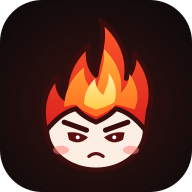
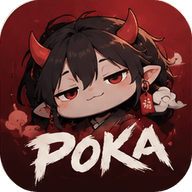
새 브랜드 적용: 시안 파비콘·대표 그림·붓글씨 POKA, 문의는 로그인 회원만, 비로그인 구인 목록은 제목만
브랜드
- 시안의 FAVICON 상자를 잘라 파비콘·탭 아이콘·상단 로고·애플·설치 앱(일반·maskable) 아이콘 모두 교체
- 홈 맨 위에 시안 대표 그림(POKA 테이블 일러스트), 홍보 포스터는 그 아래로
- 무료 홍보 이벤트: 먹색 바탕 + 시안 붓글씨 POKA + 빨간 붓 획 밑줄 + 마스코트(포스터·하단 배너·사이드 카드·광고 페이지)

권한
- 제휴·광고(무료 홍보 포함) 문의는 로그인 회원만(서버 401, 화면은 로그인 안내), 문의 기록에 닉네임 남김
- 비로그인 구인 목록·검색·목록 API: 제목·분류·모집 상태만, 조건·주소·일정·상호 칸은 서버에서 비워 보냄
- 관리자 수정·삭제 권한은 그대로 유지

diff --git a/src/components/ads/free-promo-banner.tsx b/src/components/ads/free-promo-banner.tsx
@@ -2,12 +2,12 @@ import Link from "next/link";
 import { FREE_PROMO } from "@/lib/free-promo";
 import { cn } from "cn";
 
-/** POKA 마스코트(사이트 위쪽 로고의 불꽃 캐릭터)를 금테 안에 넣어 보여 줍니다. */
+/** POKA 마스코트(파비콘 그림)를 빨간 테 안에 넣어 보여 줍니다. */
 export function PokaMascot({ className }: { className?: string }) {
   return (
     <span
       className={cn(
-        "relative inline-grid shrink-0 place-items-center rounded-[22%] bg-gradient-to-br from-[#f6dfa0] to-[#c9952f] p-[3px] shadow-[0_0_14px_rgba(255,68,68,0.45)]",
+        "relative inline-grid shrink-0 place-items-center rounded-[22%] bg-[#c8282c] p-[3px] shadow-[0_0_18px_rgba(255,59,48,0.35)]",
         className,
       )}
     >
@@ -17,8 +17,32 @@ export function PokaMascot({ className }: { className?: string }) {
   );
 }
 
+/** 브랜드 시안의 붓글씨 "POKA" 로고 */
+export function PokaBrush({ className }: { className?: string }) {
+  // eslint-disable-next-line @next/next/no-img-element
+  return <img src="/brand/poka-brush.png" alt="POKA" className={cn("h-auto select-none", className)} draggable={false} />;
+}
+
+/** "무료 홍보 이벤트" 글자 + 밑에 깔린 빨간 붓 획 */
+export function FreePromoTitle({ className }: { className?: string }) {
+  return (
+    <span className={cn("relative inline-block font-black leading-none tracking-tight text-[#f6efe6]", className)}>
+      <svg
+        aria-hidden
+        viewBox="0 0 320 40"
+        preserveAspectRatio="none"
+        className="absolute -inset-x-[6%] bottom-[-18%] -z-0 h-[62%] w-[112%]"
+      >
+        <path d="M6 18 C60 4 170 0 306 6 C314 8 316 16 306 20 C206 24 108 30 16 38 C2 40 -4 24 6 18 Z" fill="#c8282c" opacity="0.9" />
+      </svg>
+      <span className="relative">무료 홍보 이벤트</span>
+    </span>
+  );
+}
+
 /**
  * "POKA 무료 홍보 이벤트" 배너. 비어 있는 홍보·광고 자리에 넣습니다.
+ * 브랜드 시안처럼 먹색 바탕에 붓글씨 POKA, 빨간 붓 획을 씁니다.
  * wide: 게시판·메인 하단 가로 띠, card: 오른쪽 제휴 카드 자리
  */
 export function FreePromoBanner({ variant, className }: { variant: "wide" | "card"; className?: string }) {
@@ -28,19 +52,16 @@ export function FreePromoBanner({ variant, className }: { variant: "wide" | "car
         href={FREE_PROMO.href}
         aria-label={FREE_PROMO.title}
         className={cn(
-          "group mx-auto flex w-full max-w-[300px] flex-col items-center gap-2 overflow-hidden rounded-[1.25rem] border-2 border-[#c9952f]/80 bg-gradient-to-b from-[#5a1418] via-[#2a0f10] to-[#140a0a] px-4 py-5 text-center shadow-[0_8px_24px_rgb(0_0_0/0.4)] hover:border-[#f6dfa0]",
+          "group mx-auto flex w-full max-w-[300px] flex-col items-center gap-2.5 overflow-hidden rounded-[1.25rem] border border-[#c9a36a]/50 bg-gradient-to-b from-[#241011] via-[#140d0d] to-[#0c0a0a] px-4 py-5 text-center shadow-[0_8px_24px_rgb(0_0_0/0.4)] hover:border-[#c9a36a]",
           className,
         )}
       >
-        <span className="rounded-full bg-gradient-to-r from-[#f6dfa0] to-[#c9952f] px-3 py-0.5 text-[11px] font-black tracking-[0.25em] text-[#2a0f10]">
-          EVENT
-        </span>
+        <span className="text-[10px] font-bold tracking-[0.4em] text-[#c9a36a]">FREE PROMOTION</span>
         <PokaMascot className="size-16" />
-        <span className="text-xl font-black leading-tight text-white">
-          POKA <span className="bg-gradient-to-r from-[#f6dfa0] to-[#c9952f] bg-clip-text text-transparent">무료 홍보</span> 이벤트
-        </span>
-        <span className="text-xs leading-5 text-[#f3eadb]">매장 · 대회 · 팀 · 유튜버 홍보를 POKA 메인에 무료로 올려 드려요</span>
-        <span className="mt-1 inline-flex min-h-10 items-center rounded-full bg-gradient-to-r from-[#f6dfa0] to-[#c9952f] px-5 text-sm font-black text-[#2a0f10] group-hover:brightness-110">
+        <PokaBrush className="w-36" />
+        <FreePromoTitle className="text-2xl" />
+        <span className="mt-1 text-xs leading-5 text-[#e8dfd3]">매장 · 대회 · 팀 · 유튜버 홍보를 POKA 메인에 무료로 올려 드려요</span>
+        <span className="mt-1 inline-flex min-h-10 items-center rounded-lg bg-[#c8282c] px-5 text-sm font-black text-[#f6efe6] group-hover:bg-[#d93a3e]">
           지금 신청하기 →
         </span>
       </Link>
@@ -51,21 +72,19 @@ export function FreePromoBanner({ variant, className }: { variant: "wide" | "car
       href={FREE_PROMO.href}
       aria-label={FREE_PROMO.title}
       className={cn(
-        "group flex min-h-[100px] items-center gap-3 overflow-hidden rounded-xl border-2 border-[#c9952f]/80 bg-gradient-to-r from-[#5a1418] via-[#2a0f10] to-[#140a0a] px-4 py-3 shadow-[0_6px_18px_rgb(0_0_0/0.35)] hover:border-[#f6dfa0] sm:px-6",
+        "group flex min-h-[104px] items-center gap-3 overflow-hidden rounded-xl border border-[#c9a36a]/50 bg-gradient-to-r from-[#241011] via-[#140d0d] to-[#0c0a0a] px-4 py-3 shadow-[0_6px_18px_rgb(0_0_0/0.35)] hover:border-[#c9a36a] sm:px-6",
         className,
       )}
     >
-      <PokaMascot className="size-12 sm:size-14" />
-      <span className="min-w-0 flex-1">
+      <PokaMascot className="size-14 sm:size-16" />
+      <span className="flex min-w-0 flex-1 flex-col items-start gap-1.5">
         <span className="flex items-center gap-2">
-          <span className="rounded-full bg-[#f6dfa0]/15 px-2 py-0.5 text-[10px] font-black tracking-[0.2em] text-[#f6dfa0]">EVENT</span>
+          <PokaBrush className="w-20 sm:w-24" />
+          <FreePromoTitle className="text-lg sm:text-xl" />
         </span>
-        <span className="mt-0.5 block text-base font-black leading-snug text-white sm:text-lg">
-          POKA <span className="text-[#f6dfa0]">무료 홍보</span> 이벤트
-        </span>
-        <span className="block text-xs text-[#f3eadb] sm:text-sm">매장 · 대회 · 팀 · 유튜버 홍보를 POKA 메인에 무료로 올려 드려요</span>
+        <span className="block text-xs text-[#e8dfd3] sm:text-sm">매장 · 대회 · 팀 · 유튜버 홍보를 POKA 메인에 무료로 올려 드려요</span>
       </span>
-      <span className="hidden shrink-0 rounded-full bg-gradient-to-r from-[#f6dfa0] to-[#c9952f] px-4 py-2 text-sm font-black text-[#2a0f10] group-hover:brightness-110 sm:inline-flex">
+      <span className="hidden shrink-0 rounded-lg bg-[#c8282c] px-4 py-2.5 text-sm font-black text-[#f6efe6] group-hover:bg-[#d93a3e] sm:inline-flex">
         신청하기 →
       </span>
     </Link>

diff --git a/src/app/advertise/page.tsx b/src/app/advertise/page.tsx
@@ -1,8 +1,9 @@
 import type { Metadata } from "next";
 import { BriefcaseIcon, MegaphoneIcon, UsersIcon } from "lucide-react";
 import { AdvertiseForm } from "@/components/ads/advertise-form";
+import { getCurrentUser } from "@/lib/current-user";
 import { AD_PRODUCTS } from "@/lib/sponsor";
-import { PokaMascot } from "@/components/ads/free-promo-banner";
+import { FreePromoTitle, PokaBrush, PokaMascot } from "@/components/ads/free-promo-banner";
 
 export const metadata: Metadata = {
   title: "광고 · 제휴 문의",
@@ -22,7 +23,8 @@ const STEPS = [
   { title: "게재 시작", body: "확인 후 바로 노출되고, 기간이 끝나면 알려 드립니다." },
 ] as const;
 
-export default function AdvertisePage() {
+export default async function AdvertisePage() {
+  const viewer = await getCurrentUser().catch(() => null);
   return (
     <div className="flex flex-col gap-6">
       <header className="board-intro">
@@ -42,25 +44,24 @@ export default function AdvertisePage() {
 
       <section
         id="free-promo"
-        className="scroll-mt-24 overflow-hidden rounded-2xl border-2 border-[#c9952f]/80 bg-gradient-to-br from-[#5a1418] via-[#2a0f10] to-[#140a0a] p-5 sm:p-6"
+        className="scroll-mt-24 overflow-hidden rounded-2xl border border-[#c9a36a]/50 bg-gradient-to-br from-[#241011] via-[#140d0d] to-[#0c0a0a] p-5 sm:p-6"
       >
-        <span className="rounded-full bg-gradient-to-r from-[#f6dfa0] to-[#c9952f] px-3 py-0.5 text-[11px] font-black tracking-[0.25em] text-[#2a0f10]">
-          EVENT
-        </span>
-        <div className="mt-3 flex items-center gap-3">
-          <PokaMascot className="size-14" />
-          <h2 className="text-2xl font-black text-white">
-            POKA <span className="text-[#f6dfa0]">무료 홍보</span> 이벤트
+        <span className="text-[11px] font-bold tracking-[0.4em] text-[#c9a36a]">FREE PROMOTION EVENT</span>
+        <div className="mt-3 flex items-center gap-4">
+          <PokaMascot className="size-16" />
+          <h2 className="flex flex-col items-start gap-2">
+            <PokaBrush className="w-32" />
+            <FreePromoTitle className="text-2xl sm:text-3xl" />
           </h2>
         </div>
-        <p className="mt-2 text-sm leading-6 text-[#f3eadb]">
+        <p className="mt-4 text-sm leading-6 text-[#e8dfd3]">
           매장 오픈, 대회, 팀 모집, 유튜브 채널 홍보를 POKA 메인 포스터 자리에 무료로 올려 드립니다. 아래 문의 양식에
           &quot;무료 홍보 이벤트&quot;라고 적고 업체명·연락처를 남겨 주시면, 확인 후 포스터를 받아 바로 걸어 드립니다.
         </p>
         <p className="mt-1 text-xs text-[#bfae92]">자리가 차면 순서대로 안내하며, 이벤트는 운영 상황에 따라 끝날 수 있습니다.</p>
         <a
           href="#inquiry"
-          className="mt-4 inline-flex min-h-11 items-center rounded-full bg-gradient-to-r from-[#f6dfa0] to-[#c9952f] px-6 text-sm font-black text-[#2a0f10] hover:brightness-110"
+          className="mt-4 inline-flex min-h-11 items-center rounded-lg bg-[#c8282c] px-6 text-sm font-black text-[#f6efe6] hover:bg-[#d93a3e]"
         >
           무료 홍보 신청하기 →
         </a>
@@ -110,7 +111,7 @@ export default function AdvertisePage() {
 
       <section id="inquiry" className="scroll-mt-24">
         <h2 className="mb-3 text-lg font-bold text-white">광고 문의하기</h2>
-        <AdvertiseForm />
+        <AdvertiseForm loggedIn={Boolean(viewer)} />
       </section>
     </div>
   );

diff --git a/src/lib/load-feed.ts b/src/lib/load-feed.ts
@@ -56,11 +56,45 @@ export function toJobCard(post: FeedRow, now = new Date(), today = todayKstDate(
   };
 }
 
+/**
+ * 비로그인용 구인 카드: 제목·분류·모집 상태·글쓴이만 남기고 조건·주소·일정 등은 비웁니다.
+ * 화면뿐 아니라 브라우저로 내려가는 데이터에서도 빠지게 하려고 서버에서 비웁니다.
+ */
+export function guestJobCard(card: JobCardData): JobCardData {
+  return {
+    ...card,
+    jobLocation: null,
+    jobCompanyName: null,
+    jobPayType: null,
+    jobPayAmount: null,
+    jobSchedule: null,
+    jobWorkHours: null,
+    jobBenefits: null,
+    jobExperience: null,
+    jobWorkDate: null,
+    jobDateFlexible: false,
+    jobGuaranteedHours: null,
+    jobOvertime: null,
+    jobTravelPay: false,
+    jobTravelPayAmount: null,
+    jobSnacks: false,
+    jobDressCode: null,
+    jobApplyMethod: null,
+    jobEndDate: null,
+    jobEvents: null,
+    jobDeadline: null,
+    jobHeadcount: null,
+    jobAlwaysOpen: false,
+  };
+}
+
 export type JobPageOptions = {
   offset?: number;
   limit?: number;
   region?: JobRegion | null;
   openOnly?: boolean;
+  /** 비로그인이면 제목만(guestJobCard) */
+  guest?: boolean;
 };
 
 /**
@@ -111,7 +145,8 @@ export async function loadJobPage(key: FeedKey, options: JobPageOptions = {}) {
 
   const total = openCount + closedCount;
   const nextOffset = offset + rows.length < total ? offset + rows.length : null;
-  return { total, openCount, nextOffset, jobs: rows.map((row) => toJobCard(row, now, today)) };
+  const jobs = rows.map((row) => toJobCard(row, now, today));
+  return { total, openCount, nextOffset, jobs: options.guest ? jobs.map(guestJobCard) : jobs };
 }
 
 export async function loadFeedPage(key: FeedKey, offset = 0, limit = PAGE_SIZE) {

diff --git a/src/app/api/advertise/route.ts b/src/app/api/advertise/route.ts
@@ -2,9 +2,15 @@ import { NextResponse } from "next/server";
 import { clientIp } from "@/lib/request";
 import { CoolDownError, REPORT_COOLDOWN_MS, writeAudit } from "@/lib/security";
 import { prisma } from "@/lib/db";
+import { getCurrentUser } from "@/lib/current-user";
 
+/** 제휴·광고(무료 홍보 이벤트 포함) 문의. 로그인한 회원만 보낼 수 있습니다. */
 export async function POST(request: Request) {
   try {
+    const user = await getCurrentUser();
+    if (!user) {
+      return NextResponse.json({ error: "로그인 후 문의를 보낼 수 있습니다." }, { status: 401 });
+    }
     const body = (await request.json()) as {
       company?: string;
       contact?: string;
@@ -20,7 +26,7 @@ export async function POST(request: Request) {
     }
 
     const ip = clientIp(request);
-    const key = `ad:ip:${ip}`;
+    const key = `ad:user:${user.id}`;
     const last = await prisma.writeThrottle.findUnique({ where: { key } });
     if (last && Date.now() - last.lastAt.getTime() < REPORT_COOLDOWN_MS) {
       return NextResponse.json({ error: "잠시 후 다시 보내 주세요." }, { status: 429 });
@@ -34,7 +40,7 @@ export async function POST(request: Request) {
     await writeAudit({
       kind: "AD_INQUIRY",
       ip,
-      detail: JSON.stringify({ company, contact, product, message: message.slice(0, 500) }),
+      detail: JSON.stringify({ nickname: user.nickname, company, contact, product, message: message.slice(0, 500) }),
     });
 
     return NextResponse.json({ ok: true });

diff --git a/src/components/ads/advertise-form.tsx b/src/components/ads/advertise-form.tsx
@@ -7,7 +7,7 @@ import { Label } from "@/components/ui/label";
 import { Textarea } from "@/components/ui/textarea";
 import { AD_PRODUCTS } from "@/lib/sponsor";
 
-export function AdvertiseForm() {
+export function AdvertiseForm({ loggedIn = true }: { loggedIn?: boolean }) {
   const [pending, setPending] = useState(false);
   const [error, setError] = useState<string | null>(null);
   const [done, setDone] = useState(false);
@@ -34,6 +34,21 @@ export function AdvertiseForm() {
     } finally {
       setPending(false);
     }
+  }
+
+  if (!loggedIn) {
+    return (
+      <div className="flex flex-col items-center gap-3 rounded-2xl border border-border bg-[#1a1617] px-4 py-8 text-center">
+        <p className="text-[15px] font-semibold text-white">문의는 로그인한 회원만 보낼 수 있습니다.</p>
+        <p className="text-sm text-[#9CA3AF]">카카오 또는 구글로 10초 만에 가입할 수 있어요.</p>
+        <a
+          href={`/login?next=${encodeURIComponent("/advertise#inquiry")}`}
+          className="inline-flex min-h-12 items-center rounded-full bg-[#8b2222] px-6 text-sm font-bold text-white hover:bg-[#a12a2a]"
+        >
+          로그인하고 문의하기
+        </a>
+      </div>
+    );
   }
 
   if (done) {

diff --git a/src/app/boards/jobs/[kind]/page.tsx b/src/app/boards/jobs/[kind]/page.tsx
@@ -11,6 +11,7 @@ import { loadJobPage } from "@/lib/load-feed";
 import { resolveJobKind } from "@/lib/nav";
 import { cn } from "cn";
 import { BoardBottomAd } from "@/components/ads/board-bottom-ad";
+import { getCurrentUser } from "@/lib/current-user";
 
 export const dynamic = "force-dynamic";
 
@@ -47,7 +48,9 @@ export default async function JobBoardPage({
   const region = parseJobRegion(query.region);
   const openOnly = query.open === "1";
   const feedKey = jobFeedKey(job.kind);
-  const page = await loadJobPage(feedKey, { offset: 0, limit: PAGE_SIZE, region, openOnly });
+  // 비로그인은 제목만 보이게 조건·주소 등을 빼고 내려보냅니다.
+  const guest = !(await getCurrentUser().catch(() => null));
+  const page = await loadJobPage(feedKey, { offset: 0, limit: PAGE_SIZE, region, openOnly, guest });
   const writeHref = `/boards/jobs/${kind}/write`;
 
   return (

diff --git a/src/app/boards/jobs/page.tsx b/src/app/boards/jobs/page.tsx
@@ -13,6 +13,7 @@ import { loadJobPage } from "@/lib/load-feed";
 import { JOB_KINDS } from "@/lib/nav";
 import { cn } from "cn";
 import { BoardBottomAd } from "@/components/ads/board-bottom-ad";
+import { getCurrentUser } from "@/lib/current-user";
 
 export const dynamic = "force-dynamic";
 
@@ -37,7 +38,7 @@ export default async function JobsHubPage({ searchParams }: { searchParams: Sear
   const region = parseJobRegion(params.region);
   const openOnly = params.open === "1";
   const [page, urgent] = await Promise.all([
-    loadJobPage("jobs", { offset: 0, limit: PAGE_SIZE, region, openOnly }).catch(() => ({
+    loadJobPage("jobs", { offset: 0, limit: PAGE_SIZE, region, openOnly, guest: !(await getCurrentUser().catch(() => null)) }).catch(() => ({
       jobs: [],
       total: 0,
       nextOffset: null,

diff --git a/src/app/search/page.tsx b/src/app/search/page.tsx
@@ -4,7 +4,7 @@ import { prisma } from "@/lib/db";
 import { PostList, type PostSummary } from "@/components/posts/post-list";
 import { JobCards, type JobCardData } from "@/components/jobs/job-cards";
 import { AUTHOR_SELECT } from "@/components/posts/author-chip";
-import { toJobCard } from "@/lib/load-feed";
+import { guestJobCard, toJobCard } from "@/lib/load-feed";
 import { cn } from "cn";
 import { getCurrentUser } from "@/lib/current-user";
 
@@ -69,7 +69,7 @@ export default async function SearchPage({
     ]);
     jobTotal = jobCount;
     postTotal = postCount;
-    jobs = jobRows.map((row) => toJobCard(row));
+    jobs = jobRows.map((row) => (viewer ? toJobCard(row) : guestJobCard(toJobCard(row))));
     posts = postRows.map((post) => ({
       id: post.id,
       boardType: post.boardType,

diff --git a/src/app/api/feed/route.ts b/src/app/api/feed/route.ts
@@ -1,6 +1,7 @@
 import { NextResponse } from "next/server";
 import { AUTHOR_SELECT } from "@/components/posts/author-chip";
 import { prisma } from "@/lib/db";
+import { getCurrentUser } from "@/lib/current-user";
 import { todayKstDate } from "@/lib/dates";
 import { PAGE_SIZE, feedWhere, isJobFeed, parseFeedKey } from "@/lib/feed";
 import { parseJobRegion } from "@/lib/job-status";
@@ -52,6 +53,8 @@ export async function GET(request: Request) {
       limit,
       region: parseJobRegion(url.searchParams.get("region")),
       openOnly: url.searchParams.get("open") === "1",
+      // 비로그인은 제목만
+      guest: !(await getCurrentUser().catch(() => null)),
     });
     return NextResponse.json({ key, total: page.total, offset, items: page.jobs, nextOffset: page.nextOffset });
   }

diff --git a/src/app/page.tsx b/src/app/page.tsx
@@ -10,6 +10,7 @@ import { todayKstDate } from "@/lib/dates";
 import { getHomeFeed } from "@/lib/home-data";
 import { getPremiumBanners } from "@/lib/premium-banners";
 import { BoardBottomAd } from "@/components/ads/board-bottom-ad";
+import { HomeHero } from "@/components/home/home-hero";
 import { FREE_PROMO } from "@/lib/free-promo";
 
 export const metadata: Metadata = { alternates: { canonical: "/" } };
@@ -71,6 +72,8 @@ async function HomeFeedSections() {
 export default async function HomePage() {
   return (
     <div className="flex flex-col gap-3.5">
+      {/* 맨 위: POKA 대표 그림, 그 아래 홍보 포스터 */}
+      <HomeHero />
       <Suspense fallback={<HomePanelFallback className="aspect-[15/7]" />}>
         <HomePosters />
       </Suspense>

diff --git a/src/components/home/home-hero.tsx b/src/components/home/home-hero.tsx
@@ -1,0 +1,16 @@
+/** 홈 맨 위 대표 그림(POKA 브랜드 일러스트). 그림 안에 POKA 로고와 HOLDEM COMMUNITY 문구가 들어 있습니다. */
+export function HomeHero() {
+  return (
+    <section aria-label="POKA 홀덤 커뮤니티" className="overflow-hidden rounded-[1.35rem] border border-[#c9a25c]/40 bg-black shadow-[0_10px_28px_rgb(0_0_0/0.35)]">
+      {/* eslint-disable-next-line @next/next/no-img-element */}
+      <img
+        src="/images/hero/poka-hero.webp"
+        alt="POKA 홀덤 커뮤니티 — 홀덤 테이블에 앉은 POKA 마스코트"
+        width={1254}
+        height={600}
+        fetchPriority="high"
+        className="block aspect-[1254/600] h-auto w-full object-cover"
+      />
+    </section>
+  );
+}
